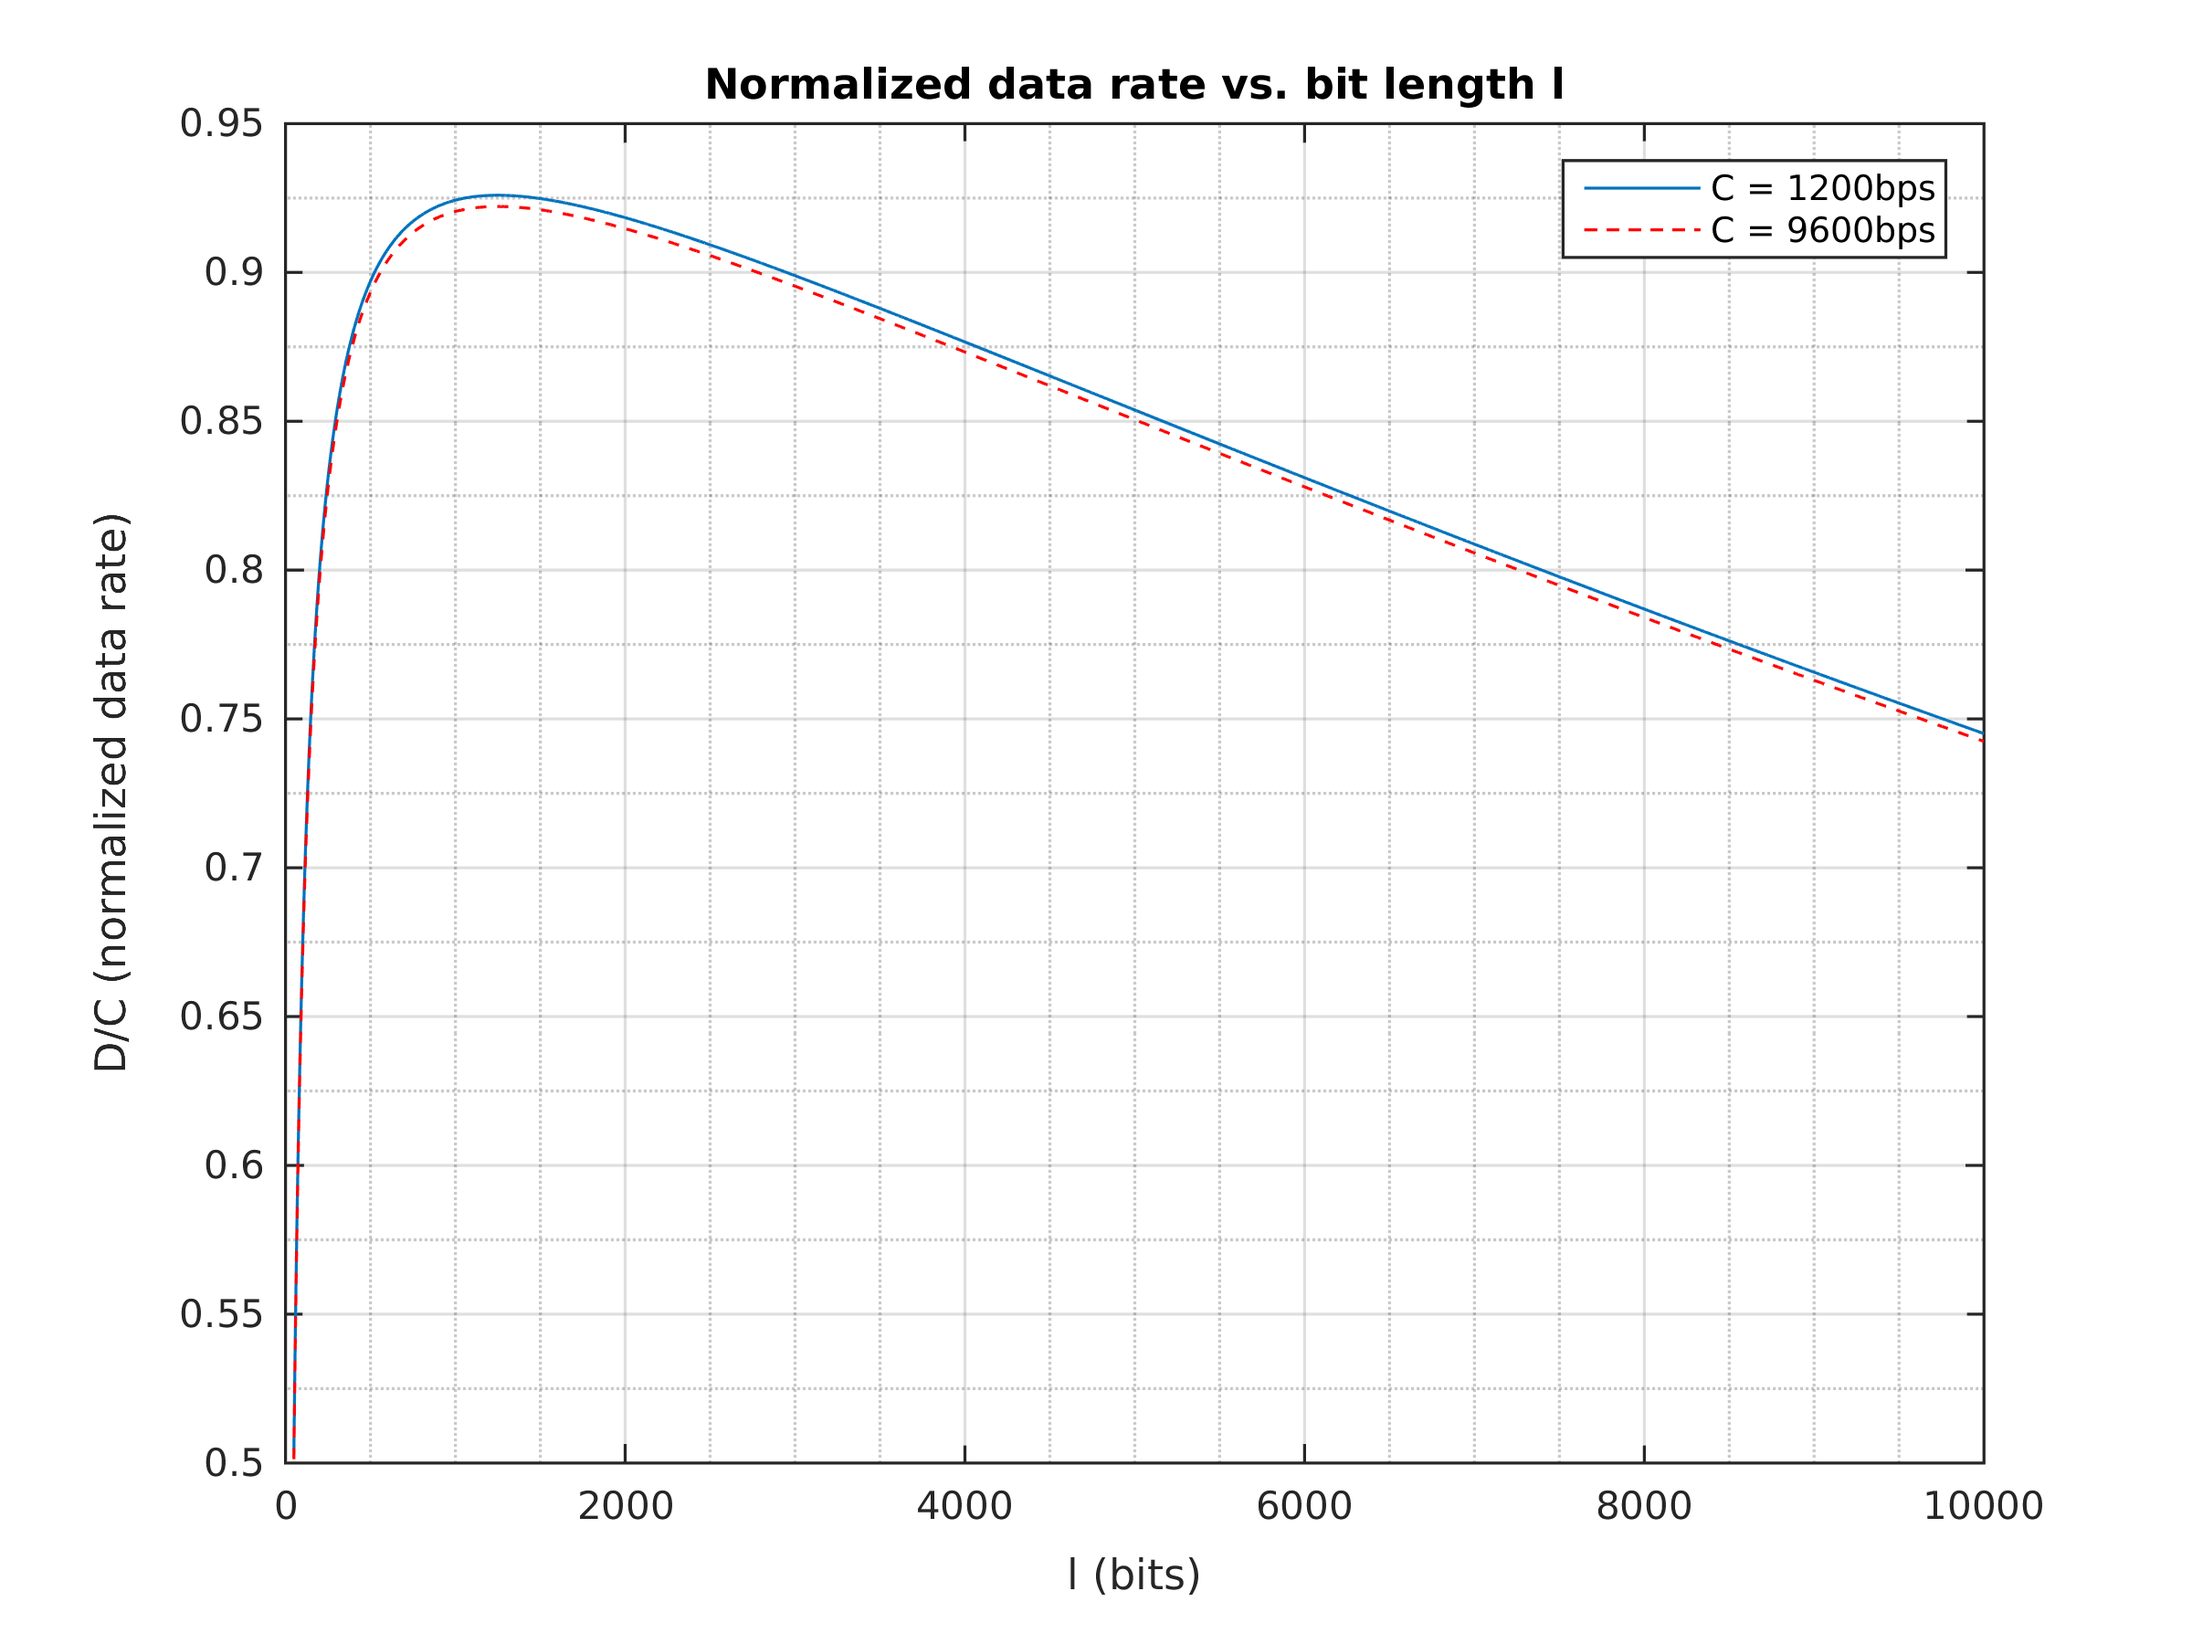
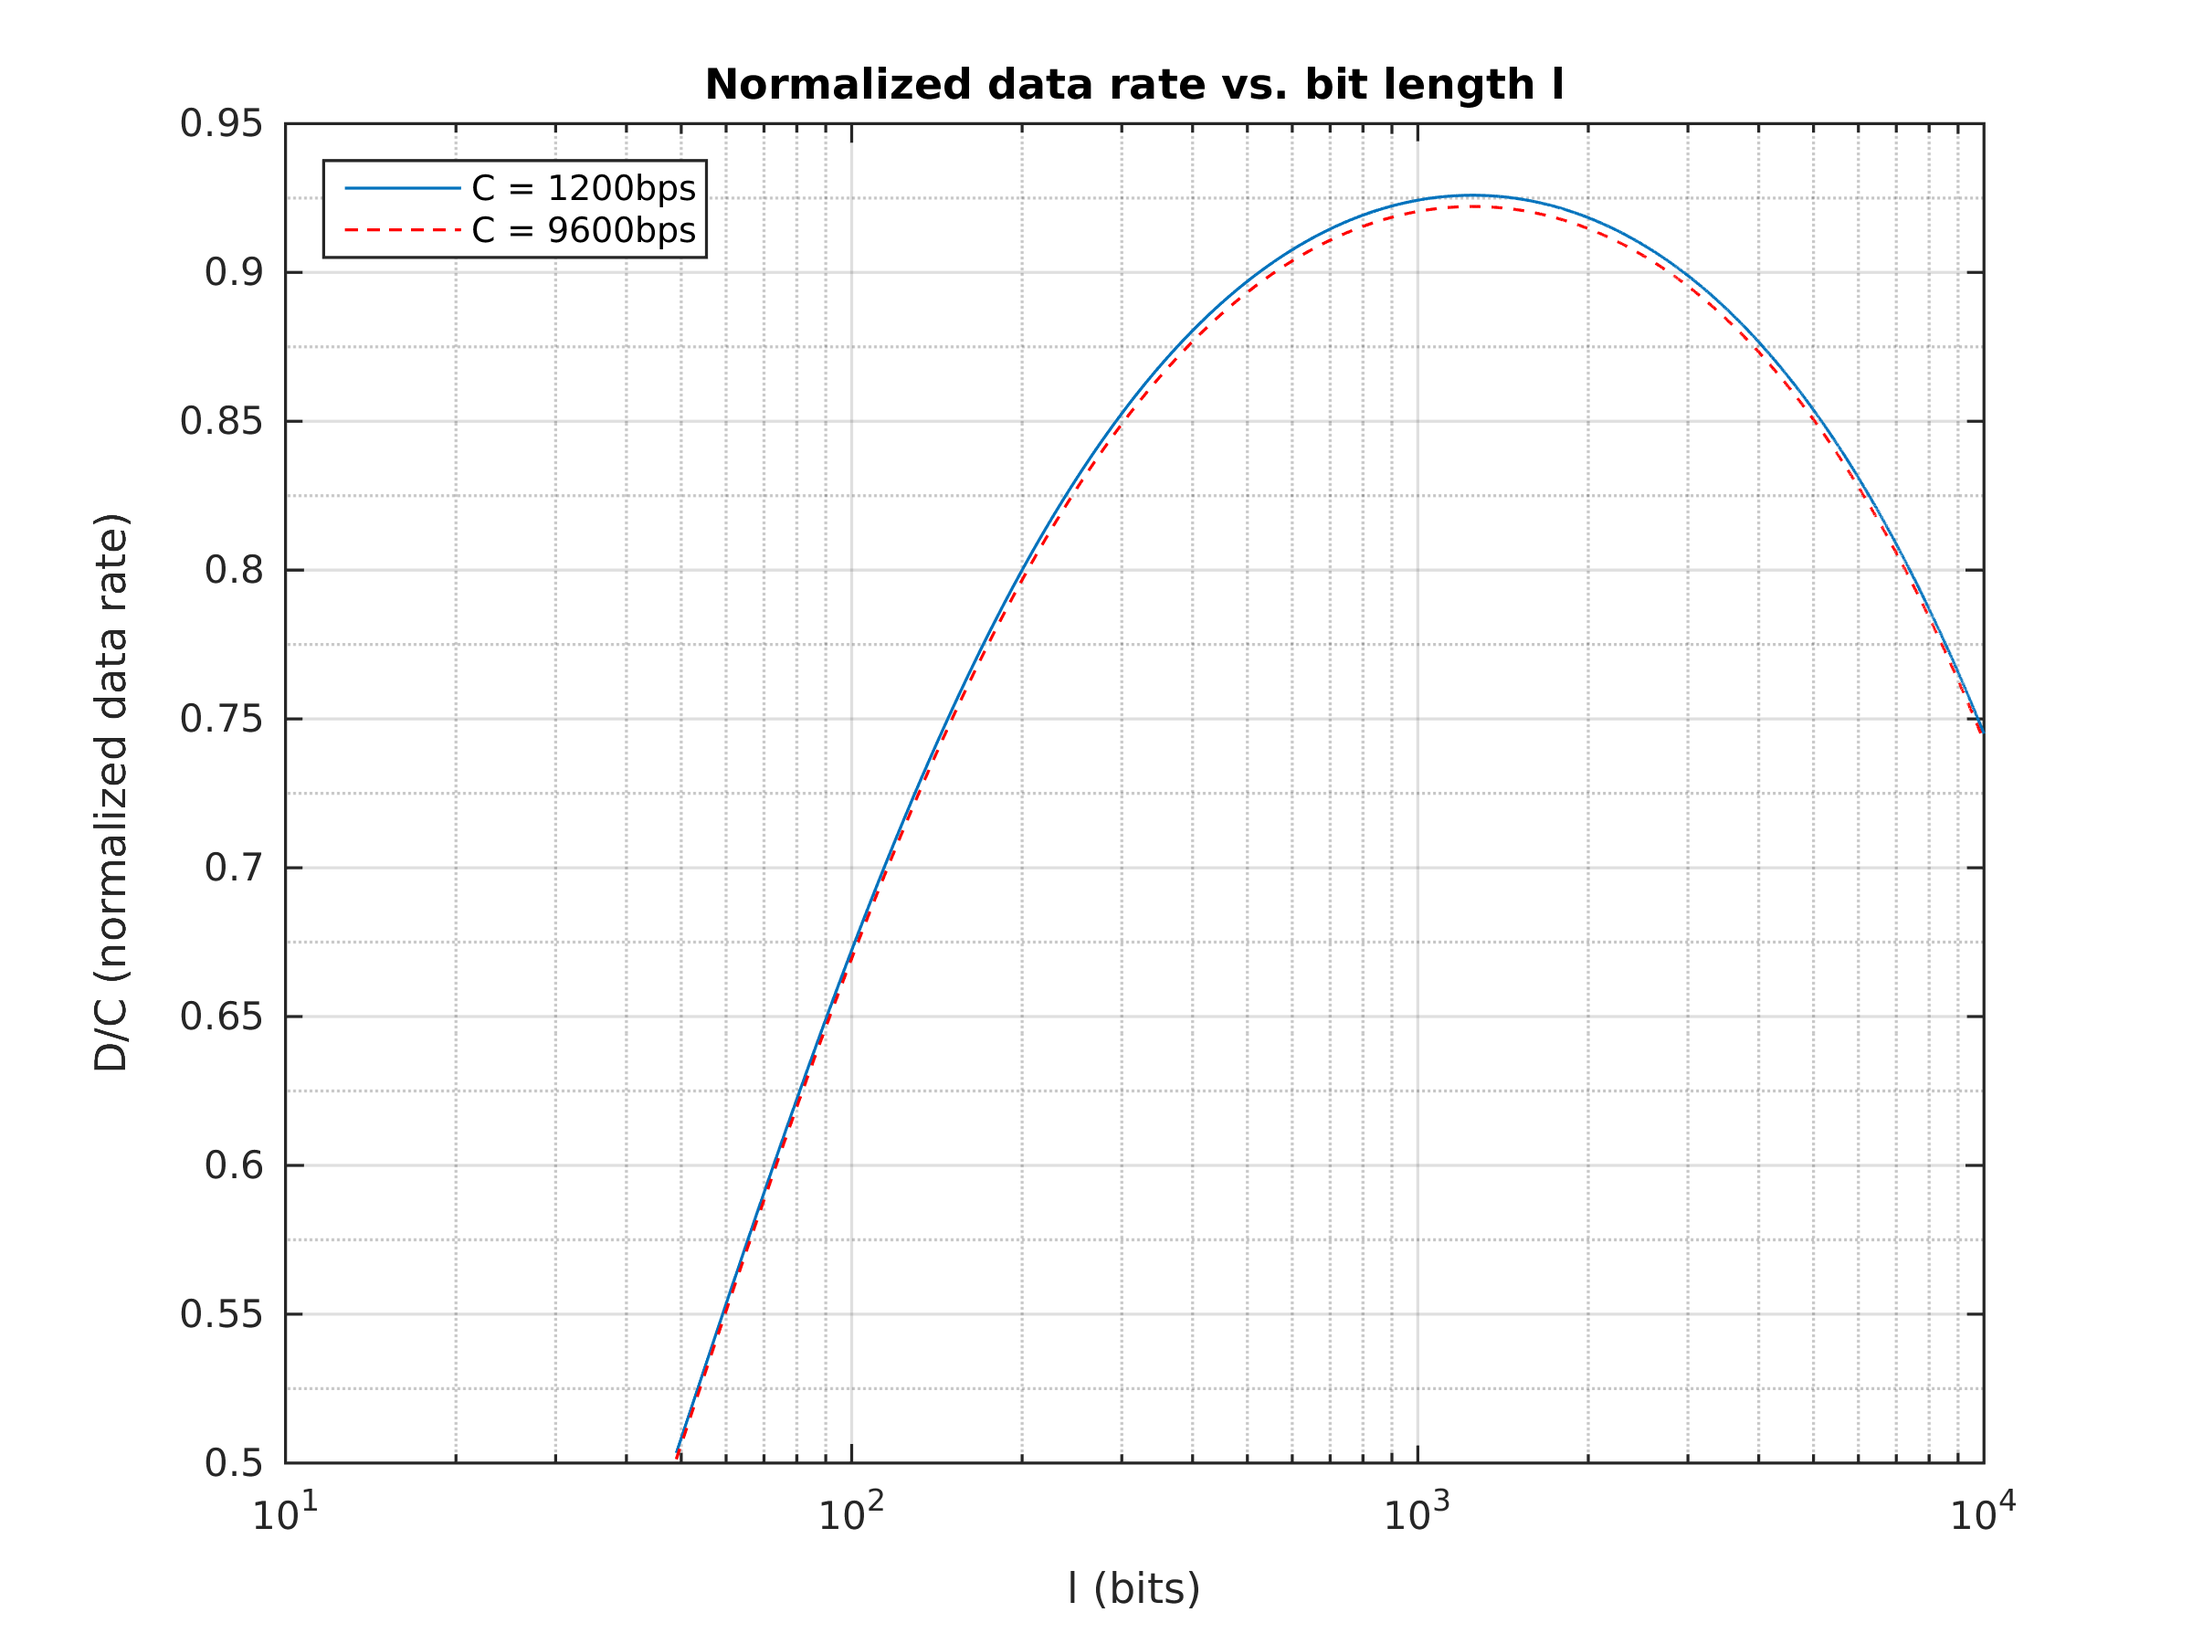
Almost finish hw5

diff --git a/hw/hw5.tex b/hw/hw5.tex
@@ -1,0 +1,158 @@
+%-----------------------------------------------------------------------------
+%	PACKAGES AND DOCUMENT CONFIGURATIONS
+%-----------------------------------------------------------------------------
+
+\documentclass{article}
+
+\usepackage{graphicx} % Required for the inclusion of images
+\usepackage{natbib} % Required to change bibliography style to APA
+\usepackage{amsmath} % Required for some math elements
+\usepackage{amssymb}
+\usepackage{grffile}
+\usepackage[export]{adjustbox}
+\usepackage{subcaption}
+\usepackage{float}
+\usepackage{listings}
+\usepackage[margin=1.0in]{geometry}
+\usepackage{tikz}
+\usepackage{enumitem}
+\usepackage{scrextend}
+\usepackage{siunitx}
+\usepackage{minted}
+
+\usetikzlibrary{shapes.geometric, arrows}
+\tikzstyle{startstop} = [rectangle, rounded corners, minimum width=1cm, minimum height=1cm,text centered, draw=black, fill=white!30]
+\tikzstyle{process} = [rectangle, minimum width=1cm, minimum height=1cm, text centered, draw=black, fill=white!30]
+\tikzstyle{arrow} = [thick,->,>=stealth]
+
+\setlength\parindent{0pt} % Removes all indentation from paragraphs
+
+%-----------------------------------------------------------------------------
+%	DOCUMENT INFORMATION
+%-----------------------------------------------------------------------------
+
+\title{ECE 547 Fall 2016 Homework 5} % Title
+
+\author{Yang \textsc{Wang}}  % Author name
+
+\date{\today} % Date for the report
+
+\renewcommand{\theenumi}{\alph{enumi}} % use letters for list items
+
+\begin{document}
+
+\maketitle % Insert the title, author and date
+
+%-----------------------------------------------------------------------------
+%	Problems
+%-----------------------------------------------------------------------------
+
+\section*{Schwartz 4-2}
+	Given that:
+	\begin{align*}
+		l' &= 48 \text{ bits} \\
+		\text{distance} &= 1.5e3 \text{ km} \\
+		v_{prop} &= 1.5e4 \text{ km/sec} \\
+		t_{proc} &= 30e-3 \text{ sec} \\
+		p_b &= 1e-5 \\
+		C1 &= 1200 \text{ bps} \\
+		C2 &= 9600 \text{ bps}
+	\end{align*}
+	Using Eq. (4-10) in the Schwartz textbook and MATLAB, we can obtain the
+	following plot.
+	\begin{figure}[!hbt]
+		\centering
+		\includegraphics[width=0.6\linewidth]{hw5_1_dr.png}
+		\caption{Normalized data throughput rate $D/C$ for go-back-N protocol.}
+	\end{figure}
+	We can observe that the given these conditions, even with a different link
+	speed, the normalized data rate is about the same. This is due to the factor
+	$a$ in Eq. (4-10). We know that,
+	\begin{equation}
+		a = \frac{t_I + t_{out}}{t_I}
+	\end{equation}
+	Hence, if we change the line speed $C$, $a$ will not vary much since
+	$t_{out} \ll t_I$ and $a$ in Equation 1 is dominated by $t_I$.
+
+\section*{Schwartz 4-3}
+	\subsection*{Part (a)}
+		For this problem, I will use the same method derived in Lecture 21.
+		First, let's define:
+		\begin{align*}
+			t_v &= \text{for a given frame, the time needed for a correct transmission} \\
+			N &= \text{total number of retransmission for the frame} \\
+			p &= \text{frame error}
+		\end{align*}
+		From the Law of Total Expectation,
+		\begin{align*}
+			E[t_v] &= E[E[t_v | N]] \\
+			&= E[t_v | N = 0] \cdot P(\left\{ N = 0\right\}) + E[t_v | N = 1] \cdot P(\left\{ N = 1\right\}) + \ldots + E[t_v | N = n] \cdot P(\left\{ N = n\right\}) \\
+			&= \sum_{n=0}^{\infty} (t_{\text{ack}} + n \cdot t_{\text{out}} + (n+1) \cdot t_I) p^{n}(1-p) \\
+			&= \sum_{n=0}^{\infty} (t_{\text{ack}} + t_I) p^{n}(1-p) + \sum_{n=0}^{\infty} n(t_{\text{out}} + t_I) p^{n}(1-p) \\
+			&= (t_{\text{ack}} + t_I) + (1-p)(t_{\text{out}} + t_I)\sum_{n=0}^{\infty} np^{n} \\
+			&= \frac{(t_{\text{ack}} + t_I)(1-p) + p(t_{\text{out}} + t_I)}{1-p}
+		\end{align*}
+		And from this result, we can obtain,
+		\begin{align*}
+			\lambda_{max} &= \frac{1}{E[t_v]} \\
+			&= \frac{1-p}{(t_{\text{ack}} + t_I)(1-p) + p(t_{\text{out}} + t_I)}
+		\end{align*}
+		After algebraic manipulations on this result, we can obtain,
+		\begin{equation}
+			\lambda_{max} = \frac{1-p}{t_{T}[1 + (b-1)p]}
+		\end{equation}
+		\begin{align*}
+			\text{where } b = \frac{t_I + t_{\text{out}}}{t_I + t_{\text{ack}}}
+		\end{align*}
+		%For comparison, plot new lambda_max
+	\subsection*{Part (b)}
+	%TODO
+
+\section*{Schwartz 4-4}
+	\subsection*{Part (a)}
+		The protocol will work correctly. With $t_{\text{ack}} > t_{\text{out}}$,
+		the sender will continuously send packets without waiting for the timeout
+		to finish. However, the receive will eventually ACK the packet.
+	\subsection*{Part (b)}
+		The timeout function is needed. When sender sends a series of packets to
+		the receiver, the packets can be dropped or lost. In this way, there is no
+		way for the receiver/sender to react to this situation if no timeout
+		function is implemented.
+	\subsection*{Part (c)}
+		It is guaranteed that the receiver will detect the original (duplicate)
+		frame. Since the sequence number of each packet always increments, if the
+		receiver receives an identical packet that has a smaller sequence number
+		than the current sequence number, the receive will identify this particular
+		packet as a duplicate.
+
+\section*{Schwartz 4-7}
+	Using Eq. (4-10) in the Schwartz textbook and MATLAB, we can obtain the
+	following plot.
+	\begin{figure}[!hbt]
+		\centering
+		\includegraphics[width=0.6\linewidth]{hw5_3_dr.png}
+		\caption{Normalized data throughput rate $D/C$ for terrestrial and satellite link.}
+	\end{figure}
+	The figure looks identical to Figure 4-8 in Schwartz textbook.
+
+\section*{Schwartz 4-8}
+	We need to find the maximum of the normalized rate $D/C$, i.e., $\max\limits_{l}\frac{D}{C}$.
+	We can obtain the optimal data length by taking the derviative of $\frac{D}{C}$
+	w.r.t. $l$ and set it to 0 to find the corresponding $l$. We know that,
+	\begin{align*}
+		\frac{D}{C} &= (\frac{l}{l+l'})(\frac{1-p}{1 + (a-1)p}) \\
+		&= (\frac{l}{l+l'})(1-p_b)^{l+l'} \text{ for } (a-1)p \ll 1
+	\end{align*}
+	Hence, by differentiating the above equation w.r.t. $l$ and set the derivative
+	to 0, we get,
+	\begin{align*}
+		l_{\text{opt}} &= \frac{\sqrt{l'} \sqrt{\log{(1-p_{b})}} \sqrt{l\log{(1-p_{b})} - 4} - \sqrt{\log{(1-p_{b})}}}{2 \sqrt{\log{(1-p_{b})}}} \\
+		&= \frac{1}{2} \frac{\sqrt{(l')^{2} \log{(1-p_{b})} - 4l' - \sqrt{\log{(1-p_{b})}}}}{\sqrt{\log{(1-p_{b})}}} \\
+		&= \frac{l'}{2} ( \sqrt{1 - \frac{4}{l' \log{(1-p_{b})}}} - 1)
+	\end{align*}
+	We can plug in $l' = 48$ and $p_{b} = 1e-5$ into the equation and we get
+	$l_{\text{opt}} \approx 2167$ which matches the general trend in Figure 4-8.
+
+\section*{Schwartz 4-17}
+
+\end{document}

diff --git a/hw/hw5.m b/hw/hw5.m
@@ -13,7 +13,7 @@ pb = 1e-5;
 [normdr1, l1] = normdr_snw(C, lp, len, v, tproc, pb); 
 
 figure(1);
-plot(l1, normdr1);
+semilogx(l1, normdr1);
 xlabel('l (bits)');
 ylabel('D/C (normalized data rate)');
 title('Normalized data rate vs. bit length l');
@@ -23,7 +23,77 @@ grid minor;
 
 C = 9600;
 [normdr2, l2] = normdr_snw(C, lp, len, v, tproc, pb); 
-plot(l2, normdr2, 'r--');
+semilogx(l2, normdr2, 'r--');
 
-legend('C = 1200bps', 'C = 9600bps')
+legend('C = 1200bps', 'C = 9600bps', 'Location', 'NorthWest');
 print('-dpng', '-r300', 'hw5_1_dr.png');
+
+% Schwartz 4-7
+
+% a)
+C = 4800;
+l = (lp+1):1:10000;
+p = (l + lp) .* pb;
+tp = 50e-3;
+tI = (l + lp) ./ C;
+tout = 2*tp + 2.*tI;
+tT = tout + tI;
+a = tT ./ tI;
+normdr_terr_4800 = (l./(l+lp)).*((1-p)./(1 + (a-1).*p));
+
+figure(2);
+semilogx(l, normdr_terr_4800, 'r--');
+xlabel('l (bits)');
+ylabel('D/C (normalized data rate)');
+title('Normalized data rate vs. bit length l');
+hold on;
+grid on;
+grid minor;
+
+% b)
+C = 48e3;
+l = (lp+1):1:10000;
+p = (l + lp) .* pb;
+tp = 50e-3;
+tI = (l + lp) ./ C;
+tout = 2*tp + 2.*tI;
+tT = tout + tI;
+a = tT ./ tI;
+normdr_terr_48k = (l./(l+lp)).*((1-p)./(1 + (a-1).*p));
+
+semilogx(l, normdr_terr_48k, 'r--');
+
+% c)
+C = 48e3;
+l = (lp+1):1:10000;
+p = (l + lp) .* pb;
+tp = 700e-3;
+tI = (l + lp) ./ C;
+tout = 2*tp + 2.*tI;
+tT = tout + tI;
+a = tT ./ tI;
+normdr_sat_48k = (l./(l+lp)).*((1-p)./(1 + (a-1).*p));
+
+semilogx(l, normdr_sat_48k);
+legend('Terrestrial Link', 'Terrestrial Link', 'Satellite Link', ...
+'Location', 'NorthWest');
+
+% add annotation
+x1 = 200;
+y1 = 0.92;
+txt1 = 'C = 4800 bps';
+text(x1, y1, txt1);
+
+x2 = 1126;
+y2 = 0.84;
+txt2 = 'C = 48 kbps';
+text(x2, y2, txt2);
+
+x3 = 1126;
+y3 = 0.60;
+txt3 = 'C = 48 kbps';
+text(x3, y3, txt3);
+print('-dpng', '-r300', 'hw5_3_dr.png');
+
+% Schwartz 4-8
+l_opt = (lp/2) * (sqrt(1 - (4/(lp*log(1-pb))))-1)
